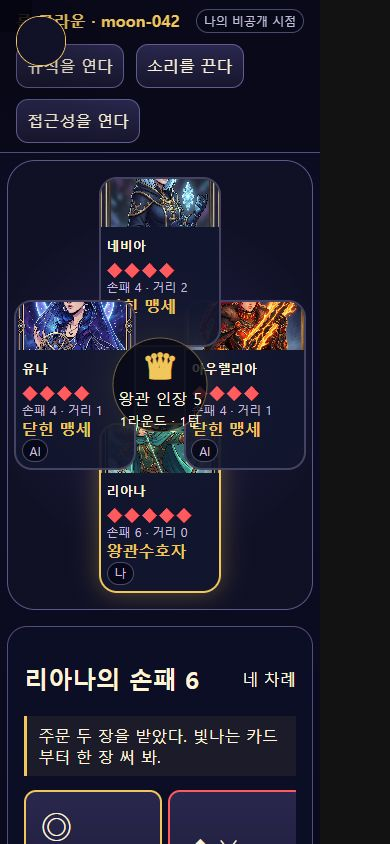
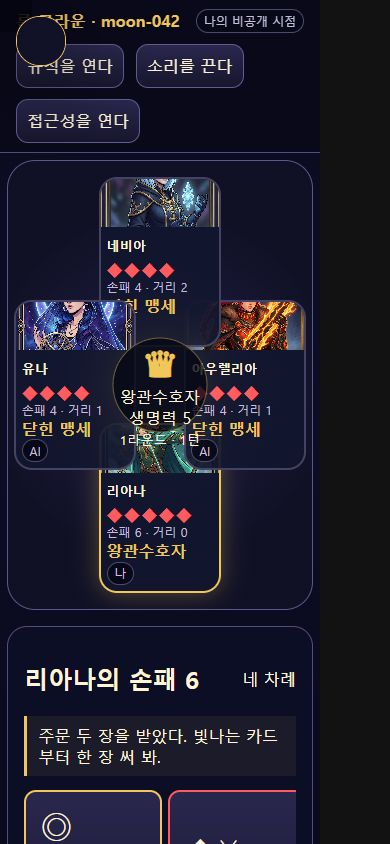
fix: clarify multiplayer decisions and match feedback

Changed region(s): [[0.3077, 0.4005, 0.5231, 0.5545]]

diff --git a/games/fantasy-bang/build/app/ui/main.js b/games/fantasy-bang/build/app/ui/main.js
@@ -100,7 +100,7 @@ function act(action) {
   const after = transport.raw();
   const latest = after.actionLog.at(-1);
   if (after.over) { modal = 'result'; sound(after.winners.includes(viewerSeat) ? 'victory' : 'damage'); }
-  else if (latest && after.actionLog.length > before) sound(latest.type === 'damage' ? 'damage' : latest.type === 'ward' ? 'ward' : 'play');
+  else if (latest && after.actionLog.length > before) sound(latest.type === 'damage' ? 'damage' : latest.type === 'ward' ? 'ward' : latest.type === 'exile' ? 'exile' : 'play');
   render();
 }
 
@@ -142,8 +142,21 @@ function actionLabel(action, state) {
   if (action.type === 'hero') return '영웅 능력을 쓴다';
   if (action.type === 'discard') return `${CARD_TYPES[state.private.hand.find(c => c.id === action.cardId)?.type]?.name ?? '카드'}를 흘린다`;
   if (action.type === 'react') return action.useWard ? '결계를 펼친다' : '받아낸다';
-  if (action.target != null) return `${state.players[action.target].hero.name}에게 ${CARD_TYPES[state.private.hand.find(c => c.id === action.cardId)?.type]?.verb ?? '쓴다'}`;
+  if (action.target != null) {
+    const card = state.private.hand.find(c => c.id === action.cardId);
+    const verb = CARD_TYPES[card?.type]?.verb ?? '쓴다';
+    const preview = card?.type === 'slash' ? ` · 미방어 시 인장·손패 한도 ${Math.max(0, state.players[action.target].hp - 1)}` : '';
+    return `${state.players[action.target].hero.name}에게 ${verb}${preview}`;
+  }
   return `${CARD_TYPES[state.private.hand.find(c => c.id === action.cardId)?.type]?.verb ?? '카드를 쓴다'}`;
+}
+
+function publicAiHint(state) {
+  const event = [...state.actionLog].reverse().find(entry => entry.actor != null && entry.target != null && state.players[entry.actor]?.controller === 'ai');
+  if (!event) return 'AI는 공개된 거리·생명력·최근 행동을 읽고 표적을 고른다.';
+  const actorName = state.players[event.actor]?.hero.name ?? 'AI';
+  const targetName = state.players[event.target]?.hero.name ?? '표적';
+  return `${actorName}는 공개된 거리·생명력·최근 행동을 보고 ${targetName}을 골랐다.`;
 }
 
 function render() {
@@ -165,10 +178,10 @@ function render() {
     </header>
     <div class="layout">
       <section class="board" aria-label="원형 균열왕좌">${state.players.map(p => seatHtml(p, state, targetSeats)).join('')}
-        <div class="crown-center"><div><b aria-hidden="true">♛</b><div>왕관 인장 ${state.crownHp}</div><small>${state.phase === 'reaction' ? '즉시 반응' : `${state.round}라운드 · ${state.totalTurns}턴`}</small></div></div>
+        <div class="crown-center"><div><b aria-hidden="true">♛</b><div>왕관수호자 생명력 ${state.crownHp}</div><small>${state.phase === 'reaction' ? '즉시 반응' : `${state.round}라운드 · ${state.totalTurns}턴`}</small></div></div>
       </section>
       <aside class="side"><section class="panel"><h2>나의 맹세 · ${state.private.roleLabel}</h2><p class="goal">${state.private.goal}</p><small>공통: 왕관수호자가 쓰러지거나 적대 맹세가 모두 드러나면 의식이 끝난다.</small></section>
-      <section class="panel"><h2>행동 기록</h2><ol class="log">${state.actionLog.slice(-12).reverse().map(e => `<li>${escapeHtml(e.text)}</li>`).join('') || '<li>첫 주문을 기다린다.</li>'}</ol></section></aside>
+      <section class="panel"><h2>행동 기록</h2><p class="ai-hint">${escapeHtml(publicAiHint(state))}</p><ol class="log">${state.actionLog.slice(-12).reverse().map(e => `<li>${escapeHtml(e.text)}</li>`).join('') || '<li>첫 주문을 기다린다.</li>'}</ol></section></aside>
       <section class="hand-zone" id="hand"><div class="hand-title"><h2>${state.players[viewerSeat].hero.name}의 손패 ${state.private.hand.length}</h2><span>${actor === viewerSeat ? '네 차례' : `${state.players[actor].hero.name}의 차례`}</span></div>
         ${state.totalTurns <= 1 && actor === viewerSeat ? '<p class="first-hint">주문 두 장을 받았다. 빛나는 카드부터 한 장 써 봐.</p>' : ''}
         <div class="cards">${state.private.hand.map(cardHtml).join('') || '<p>손에 남은 주문이 없다.</p>'}</div>
@@ -192,7 +205,14 @@ function modalHtml(state) {
   if (modal === 'rules') return `<div class="modal" role="dialog" aria-modal="true" aria-labelledby="rules-title"><section class="modal-card rules"><h2 id="rules-title">균열왕좌의 규칙</h2><p><b>뽑기 → 행동 → 반응 → 정리.</b> 자기 턴에 주문 두 장을 받고, 카드를 쓰고, 생명력만큼 손패를 남겨.</p><p>참격은 기본 거리 1에 닿아. 마도초점은 먼 좌석을 열어. 피해를 받으면 생명력과 턴 종료 손패 한도가 함께 줄어.</p><p>왕관수호자는 공개돼. 나머지 맹세는 추방될 때 드러나. 공격과 지원 기록을 읽고 편을 가려.</p><p>키보드는 Tab으로 카드와 버튼을 옮기고 Enter 또는 Space로 선택해.</p><button data-close>판으로 돌아간다</button></section></div>`;
   if (modal === 'access') return `<div class="modal" role="dialog" aria-modal="true" aria-labelledby="access-title"><section class="modal-card"><h2 id="access-title">접근성</h2><label><input id="reduced" type="checkbox" ${reduced ? 'checked' : ''}> 움직임 줄이기</label><p>글자 크기</p><div class="actions"><button data-font="1">글자를 100%로 맞춘다</button><button data-font="1.15">글자를 115%로 늘린다</button><button data-font="1.3">글자를 130%로 늘린다</button></div><p>색 외에도 아이콘·테두리·동사로 카드 기능을 구분해.</p><button data-close>판으로 돌아간다</button></section></div>`;
   if (modal === 'oath' && state) return `<div class="modal" role="dialog" aria-modal="true" aria-labelledby="oath-title"><section class="modal-card"><div class="role-seal" aria-hidden="true">◉</div><h2 id="oath-title">너는 ${state.players[viewerSeat].hero.name}. 균열왕좌에 소환됐다.</h2><h3>${state.private.roleLabel}</h3><p>${state.private.goal}</p><p><b>왕관수호자가 쓰러지면 즉시 승패를 가른다. 적대 맹세가 모두 드러나도 의식은 끝난다.</b></p><button class="primary" data-close>맹세를 품는다</button></section></div>`;
-  if (modal === 'result' && state) { const r = result(transport.raw()); const won = r.winners.includes(viewerSeat); return `<div class="modal" role="dialog" aria-modal="true" aria-labelledby="result-title"><section class="modal-card result"><div class="role-seal" aria-hidden="true">${won ? '♛' : '◇'}</div><h2 id="result-title">${won ? '왕관이 네 맹세를 골랐다' : '네 맹세가 왕관에서 멀어졌다'}</h2><p>${escapeHtml(r.reason)}</p><p>${r.turns}턴 · 승리 진영 ${ROLE_LABELS[r.outcome] ?? r.outcome}</p><div class="actions"><button class="primary" data-restart="same">같은 시드로 다시 맞선다</button><button data-restart="new">새 의식을 연다</button></div></section></div>`; }
+  if (modal === 'result' && state) {
+    const r = result(transport.raw());
+    const won = r.winners.includes(viewerSeat);
+    const firstAttacker = r.echoes.guardianFirstAttacker == null ? '왕관을 처음 겨눈 맹세는 없었다.' : `${state.players[r.echoes.guardianFirstAttacker].hero.name}가 왕관을 처음 겨뉘다.`;
+    const saved = r.echoes.savedCrownAtOne ? '인장 하나에서 왕관을 살렸다.' : '인장 하나의 구원은 없었다.';
+    const friendly = r.echoes.friendlyExile ? '같은 맹세가 서로를 추방했다.' : '같은 맹세끼리 추방하지 않았다.';
+    return `<div class="modal" role="dialog" aria-modal="true" aria-labelledby="result-title"><section class="modal-card result"><div class="role-seal" aria-hidden="true">${won ? '♛' : '◇'}</div><h2 id="result-title">${won ? '왕관이 네 맹세를 골랐다' : '네 맹세가 왕관에서 멀어졌다'}</h2><p>${escapeHtml(r.reason)}</p><p>${r.turns}턴 · 승리 진영 ${ROLE_LABELS[r.outcome] ?? r.outcome}</p><ul class="echoes"><li>${escapeHtml(firstAttacker)}</li><li>${escapeHtml(saved)}</li><li>${escapeHtml(friendly)}</li></ul><div class="actions"><button class="primary" data-restart="same">같은 시드로 다시 맞선다</button><button data-restart="new">새 의식을 연다</button></div></section></div>`;
+  }
   return '';
 }
 

diff --git a/games/fantasy-bang/build/app/ui/responsive.css b/games/fantasy-bang/build/app/ui/responsive.css
@@ -33,6 +33,20 @@
   color: var(--cream);
 }
 
+.ai-hint {
+  margin: 0 0 .45rem;
+  color: #beb8dc;
+  font-size: .8rem;
+  line-height: 1.35;
+}
+
+.echoes {
+  margin: .75rem auto 1rem;
+  max-width: 30rem;
+  text-align: left;
+  color: #d3cde8;
+}
+
 .layout > *,
 .cards,
 .side {

diff --git a/games/fantasy-bang/qa/PLAYTEST_PROTOCOL.md b/games/fantasy-bang/qa/PLAYTEST_PROTOCOL.md
@@ -1,0 +1,60 @@
+# 인간 플레이테스트 프로토콜
+
+## 표본 프로필
+
+- 목표 8명: 숨은 역할 카드게임 초보 4명, 유경험자 4명.
+- 한국어를 읽는 12세 이상 라이트~중도 전략 이용자.
+- 플레이어는 `P01`과 같은 익명 번호로만 기록하고 연락처·실명·불필요한 개인정보는 남기지 않는다.
+
+## 환경 고정
+
+- 완전히 새 브라우저 컨텍스와 빈 `localStorage`.
+- 고정 시드 `moon-042`, 정상 속도. `움직임 줄이기`를 제외한 가속·스킵·디버그 파라미터는 금지한다.
+- PC 그룹: 1024×700. 모바일 그룹: 390×844 세로. 여분이 있으면 같은 이용자가 844×390 가로를 재확인한다.
+- 진짜 입구인 타이틀에서 시작하고, 규칙 문서나 개발 설명을 먼저 보여 주지 않는다.
+
+## 비유도 화법
+
+관찰자는 시작 전 다음 한 문장만 말한다.
+
+> 정산까지 플레이하고, 하면서 생각을 말해 줘.
+
+조작 힌트, 역할 설명, 표적 추천, 카드 효율 설명은 하지 않는다. 막히면 플레이어가 말한 원문과 그 시각, 화면을 기록한다. 관찰자의 설명을 플레이어 발언으로 바꾸어 적지 않는다.
+
+## 1인당 관찰 기록
+
+1. 타이틀 출현→첫 유의미 카드 사용까지의 초.
+2. 2분 시점 축자 답변: `나는 누구 / 눴 원함 / 어디로 힘쓸지`.
+3. 초점 장비, 첫 공격·방어, 첫 지원·교란, 첫 추방, 결말의 실제 트리거 경로.
+4. 플레이어가 변화를 자신의 행동에 귀인할 수 있는지.
+5. 가장 `AI 같은` 문장과 가장 `입에 붙는` 문장을 축자로 한 개씩.
+6. 정산 후 아무 제안 없이 60초 안에 재시작을 누르는지.
+
+## 1–5점 척도
+
+`1=전혀 그렇지 않다`, `3=반반이다`, `5=매우 그렇다`.
+
+| 체험 기둥 | 문항 |
+|---|---|
+| 공격과 구원이 충성 발언이다 | `공격·지원 대상을 고를 때 카드 효과 외에 내 역할이 어떻게 읽힐지도 고민했다.` |
+| 상처가 선택을 태운다 | `생명력이 줄자 손패 선택지도 함께 줄어들어 방어 타이밍을 고민했다.` |
+| 첫 추방이 판의 문법을 바꾼다 | `첫 추방 후 공개된 역할과 바뀐 거리 때문에 다음 표적을 바꾼다.` |
+| 전제 전달 | `오프닝을 넘겨도 내 정체·목표·종료 조건을 말할 수 있다.` |
+| 재시작 의향 | `다른 시드나 역할로 한 판 더 하고 싶다.` |
+
+## 반증 가능한 통과 임계값과 라우팅
+
+| 검사 | 사전 임계값 | 미달 시 돌아갈 단계·수정 |
+|---|---:|---|
+| 체험 기둥 3문 | 각 표본 중앙값 ≥4/5 | `design`: 대상·대가·추방 후 거리가 실제 선택을 바꾸도록 규칙과 피드백을 재설계. |
+| 2분 핵심 목표 복술 | ≥75%(6/8) | `design`: 맹세 카드·상주 종료 조건·첫 힌트 문구를 축소/재배치. |
+| 첫 유의미 행동 | 중앙값 ≤30초, 전원 ≤60초 | `build`: 타이틀 CTA, 첫 턴 하이라이트, 작은 화면 스크롤 위치를 수정. |
+| 자발적 재시작 | ≥50%(4/8) | `product/design`: 단판 길이, 역할 차이, 정산 반향을 재검토. |
+| AI 같은 문장 | M1·M2·M3·M8·M9 0건, 동일 문장 2명 이상 지목 시 재검토 | `design`은 성조, `build`는 버튼·오류 문구 실장 불일치를 수정. |
+
+하드 게이트를 통과하기 전에는 카드·영웅·시나리오 수를 늘리지 않는다.
+
+## 증거 낙반
+
+- 위치: `qa/evidence/playtest/P01.md` … `P08.md`
+- 형식: 환경, 타임스탬프, 축자 발언, 척도, 자발 재시작, 관찰자 메모를 1인 1파일로 남긴다.

diff --git a/games/fantasy-bang/qa/evidence/playtest/README.md b/games/fantasy-bang/qa/evidence/playtest/README.md
@@ -1,0 +1,12 @@
+# 플레이테스트 개인 기록
+
+`P01.md`부터 1인 1파일로 남긴다. 필수 필드:
+
+- 익명 번호 / 초보·유경험자 / 기기·해상도
+- 첫 유의미 선택까지 초
+- 2분 시점 3문 축자 답변
+- 핵심 트리거 경로와 인과 귀인
+- 가장 AI 같은 문장 / 가장 입에 붙는 문장
+- 1–5점 척도 5문
+- 60초 안 자발적 재시작 여부
+- 관찰자는 조작 힌트나 시스템 설명을 기록에 섞지 않는다.

diff --git a/games/fantasy-bang/qa/evidence/sim-report.md b/games/fantasy-bang/qa/evidence/sim-report.md
@@ -1,10 +1,10 @@
 # 시뮬레이션 리포트
 
-- source commit: WORKTREE
+- source commit: 324e368d8e1d969f3b878d5ddf39429cb69e871c
 - 시드 수: 200
 - 정책: random, greedy, pure-A, pure-B, mixed, baseline-recommended, baseline-novice
 - 실행 명령: node games/fantasy-bang/build/app/sim/run.mjs --seeds 200 --out games/fantasy-bang/qa/evidence
-- 총 소요: 89.40초
+- 총 소요: 89.57초
 
 ## G1 지배 전략 부재 — PASS
 
